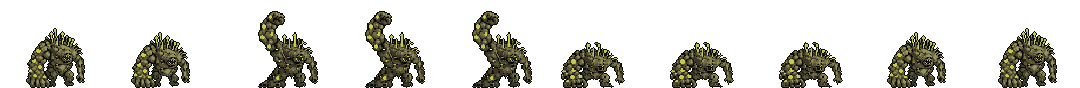
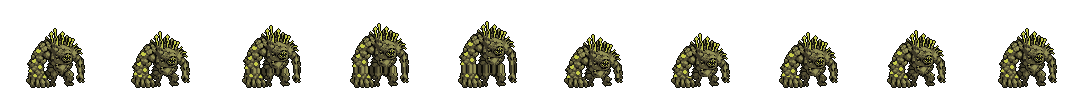
Brute slam reworked as a stomp from the idle (crouch, rear up, crash); docs
Claude-Session: https://claude.ai/code/session_01Jpd5tdDJTR7BVueAYV1KDM

diff --git a/ArtSource/brute_build.py b/ArtSource/brute_build.py
@@ -64,7 +64,11 @@ def walk_frame(i):
     f = Image.new("RGBA", (W, H), (0, 0, 0, 0)); f.alpha_composite(Image.fromarray(im[pad:]), (CX - crest(I) - pad, H - I.shape[0]))
     return clean(f)
 walk = [walk_frame(i) for i in range(8)]
-P["crouch"] = dip(I, 4)                                                    # his idle squashed 4 rows at the waist: the crouch before the rise and after the hit
+def stretch(a, rows):                                                       # the opposite: repeat the waist row `rows` times, the body rears up taller (feet stay on the ground)
+    return np.concatenate([a[:WAIST], np.repeat(a[WAIST:WAIST + 1], rows, axis=0), a[WAIST:]], axis=0)
+for n_, r_ in ((2, 2), (3, 3), (4, 4), (5, 5), (6, 6)): P[f"dip{n_}"] = dip(I, r_)
+P["crouch"] = P["dip4"]
+for n_ in (3, 5, 7): P[f"st{n_}"] = stretch(I, n_)                                                    # his idle squashed 4 rows at the waist: the crouch before the rise and after the hit
 # ---- the rock (boulder), its shatter and the slam dust, drawn here
 def rock_frames(n=6, size=16):
     OL, MID, DK, HI, FL = (14, 14, 8), (88, 84, 44), (46, 44, 24), (132, 128, 70), (200, 208, 70); rng = np.random.RandomState(5); out = []
@@ -125,7 +129,7 @@ def build(seq):
         out.append(clean(im))
     return out
 SEQ = {
-    "slam":  [("idle", 100, None, 0), ("crouch", 110, None, 0), ("slam_up", 160, None, 0, 1), ("slam_up", 260, None, 0), ("slam_up", 60, None, 0, -1), ("slam_hit", 70, None, 0, -2), ("slam_hit", 120, None, 0, -1), ("slam_hit", 260, None, 0), ("crouch", 130, None, 0), ("idle", 200, None, 0)],
+    "slam":  [("idle", 100, None, 0), ("dip3", 120, None, 0), ("st3", 130, None, 0), ("st5", 120, None, 0), ("st7", 260, None, 0), ("dip6", 70, None, 0), ("dip5", 80, None, 0), ("dip4", 110, None, 0), ("dip2", 130, None, 0), ("idle", 200, None, 0)],      # the stomp (Yan: option 1): crouch, rear up, crash down
     "swipe": [("idle", 100, None, 0), ("cock", 280, None, 0), ("cock", 50, None, 0, -1), ("out", 50, None, 0, 1), ("across", 70, None, 0, 2), ("across", 130, None, 0, 2), ("across", 100, None, 0, 1), ("idle", 220, None, 0)],      # Yan: "keep that for the swipe/punch"
     "throw": [("idle", 120, None, 0), ("cock", 260, "rock", 0), ("cock", 220, "rock", 1), ("out", 90, None, 0), ("out", 250, None, 0), ("idle", 240, None, 0)],
 }

diff --git a/Assets/Scripts/GameData/MutantAttackData.cs b/Assets/Scripts/GameData/MutantAttackData.cs
@@ -34,7 +34,7 @@ namespace GameData
             },
             ["Blight Brute"] = new Dictionary<string, AttackAnim>
             {
-                ["slam"] = new AttackAnim { Frames = 10, W = 108, H = 88, Contact = 5, ContactMs = 690, TotalMs = 1470, PivotY = 0.18182f, Ms = new[] { 100, 110, 160, 260, 60, 70, 120, 260, 130, 200 }, Travel = new[] { 0.0f, 0.0f, 0.0f, 0.0f, 0.0f, 0.0f, 0.0f, 0.0f, 0.0f, 0.0f } },
+                ["slam"] = new AttackAnim { Frames = 10, W = 108, H = 88, Contact = 5, ContactMs = 730, TotalMs = 1320, PivotY = 0.18182f, Ms = new[] { 100, 120, 130, 120, 260, 70, 80, 110, 130, 200 }, Travel = new[] { 0.0f, 0.0f, 0.0f, 0.0f, 0.0f, 0.0f, 0.0f, 0.0f, 0.0f, 0.0f } },
                 ["swipe"] = new AttackAnim { Frames = 8, W = 108, H = 88, Contact = 4, ContactMs = 480, TotalMs = 1000, PivotY = 0.18182f, Ms = new[] { 100, 280, 50, 50, 70, 130, 100, 220 }, Travel = new[] { 0.0f, 0.0f, 0.0f, 0.0f, 0.0f, 0.0f, 0.0f, 0.0f } },
                 ["throw"] = new AttackAnim { Frames = 6, W = 108, H = 88, Contact = 3, ContactMs = 600, TotalMs = 1180, PivotY = 0.18182f, Ms = new[] { 120, 260, 220, 90, 250, 240 }, Travel = new[] { 0.0f, 0.0f, 0.0f, 0.0f, 0.0f, 0.0f } },
             },

diff --git a/ArtSource/WORK_LOG.md b/ArtSource/WORK_LOG.md
@@ -5872,3 +5872,5 @@ Yan, after three failed tries on the old sprite (its big arm is shaded into the 
 
 **Brute, round 2 (2026-11-12/13).** Yan: the first sheet's poses changed his shape and size (the big arm was a tumour blob in one pose and a normal arm in the next), so he generated ONE pose per image against the idle (`ArtSource/refs/brute/`), with a size spec (80x80 cell grid, spine crest 46 cells). Recovered with `brute_recover2.py` (black background flooded from the border, square pixel pitch found by autocorrelation, snapped to the first idle's palette, the 1-cell outline the black swallowed put back, every real part kept). Round 2 poses that worked: idle, slam wind-up, slam hit (spine 39-40 cells, enlarged ~17 % by nearest-neighbour to the idle's 46: Yan: "use the enlargement"), the arm-out pose ("wind") and an arm-cocked pose (`set3_f1`). His swipe tries (stretching the arm, lunge + arc, his 3-frame sheet read as "pointing") were rejected ("scrap that"); the generator would not give a usable sweep or throw release ("the first sprite looks decent but the rest suck").
 Built from what works (`brute_build.py`): slam = idle, wind-up, slam hit + dust; swipe = idle, cocked arm, arm out with a code-drawn slash arc; throw = idle, cocked arm with the code-drawn rock in the fist, arm out as the release (rock flies); walk from his idle (body dips by deleting rows at the waist, leans, the big fist and the right foot lift as cut pieces, small arm swings). Frame 108x88. Exported (`export_mutant_walk.py`, `export_mutant_attacks.py`: contact frames slam 2, swipe 2, throw 3), stand sprite replaced (59x60 in a 64x64 canvas), `dotnet /tmp/test.dll dungeons` passes. NOT checked: Unity; the swipe and throw reuse two poses (swipe and throw look alike apart from the arc and the rock) and are the weak part; the walk is simple.
+
+**Brute: punch kept, slam reworked as a stomp (2026-11-13).** Yan: the swipe made of his cocked-arm, arm-out and arm-across poses "looks decent ... kind of a punch now", keep it (contact frame 4). The slam from his two slam poses "does not read well", in-betweens (crouch, held top, recoil) did not fix it ("I think the stills are the problem"), "we'll need to rework it, probably fully", then chose option 1: a STOMP made only of his idle: crouch (idle squashed at the waist, `dip`), rear up (idle stretched at the waist, `stretch`), crash down, recoil, with the code-drawn dust ring; 10 frames, contact (damage + knockdown) at frame 5, 730 ms. The slam poses stay in `mutants_anim/brute_poses/` for a later redo (a two-fist overhead smash is the idea, new poses to be generated). `dotnet /tmp/test.dll dungeons` passes; Unity not run.

diff --git a/ACTION_DESIGN.md b/ACTION_DESIGN.md
@@ -348,8 +348,8 @@ A cutscene, started by examining the drowned crewman on the slab (E, prompt "Exa
 
 ## Blight Brute's attacks (Yan, 2026-11-12)
 No jumps ("he's too heavy"). Art: Yan's own AI-generated pose sheet (`ArtSource/refs/brute/brute_poses_ai.jpg`), recovered to game pixels (`brute_recover.py`, `brute_build.py`); the new Brute REPLACES the old sprite everywhere (stand, walk, attacks).
-- **Lateral swipe** (adjacent, normal melee cooldown 1.0-1.6 s like every bite): the small arm sweeps across; damage on its contact frame.
-- **Ground slam** (adjacent, **10 s cooldown**, used first when ready): rears up and crashes down on the big fist, dust ring; on the contact frame **every player next to it** (co-op) is hit and **knocked down** (`KnockdownSeconds`, like the Dread's pounce).
+- **Swipe / punch** (adjacent, normal melee cooldown 1.0-1.6 s like every bite): cocked arm, arm out, arm across the chest (Yan: "kind of a punch now"); damage on its contact frame.
+- **Ground slam** (adjacent, **10 s cooldown**, used first when ready): STOMP (art, Yan 2026-11-13: the pose-based slam did not read, "option 1"): crouches, rears up (his idle stretched at the waist) and crashes down, dust ring; on the contact frame **every player next to it** (co-op) is hit and **knocked down** (`KnockdownSeconds`, like the Dread's pounce).
 - **Boulder** (`MutantAttack.BoulderOutSeconds` = **5 s** out of reach in a row, in line of sight, 2-10 tiles): rips a rock up, lifts it, throws it; the rock flies at 9 tiles/s on an arc and lands after the throw's contact frame; **damage 40 % of its attack (about 250 of 600)**, and only a player within 1 tile of the tile it was thrown at is hit, so stepping aside dodges it. After a throw the 5 s start again.
 - Co-op: new attack codes 6 slam, 7 swipe, 8 throw in `MutantAttack.NetState/Mirror`; the rock and the dust are drawn from the same state on clients.
 - My numbers (not Yan's): boulder speed 9 tiles/s, range 2-10, 40 % damage, hit radius 1, throw/slam/swipe timings. Never run in Unity.
